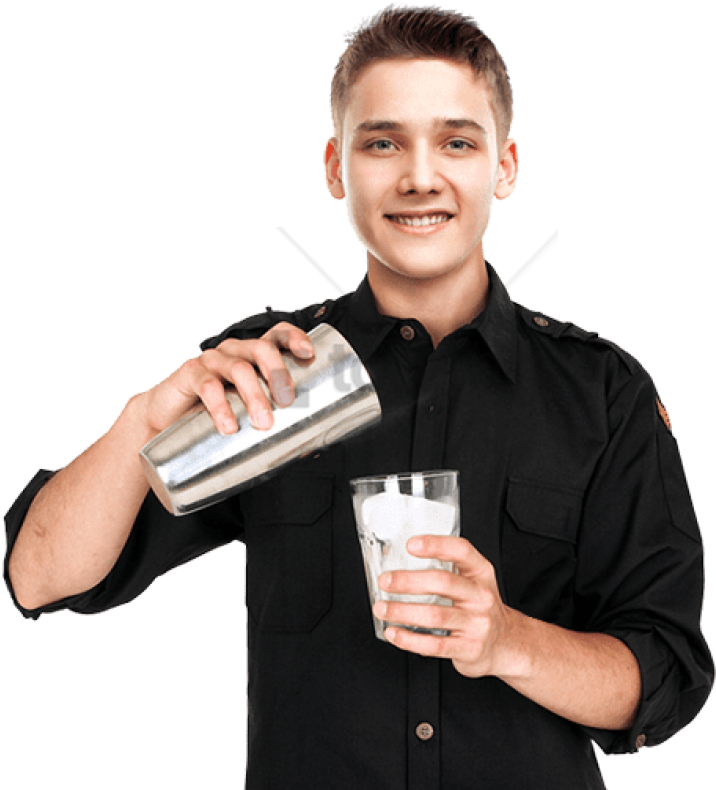
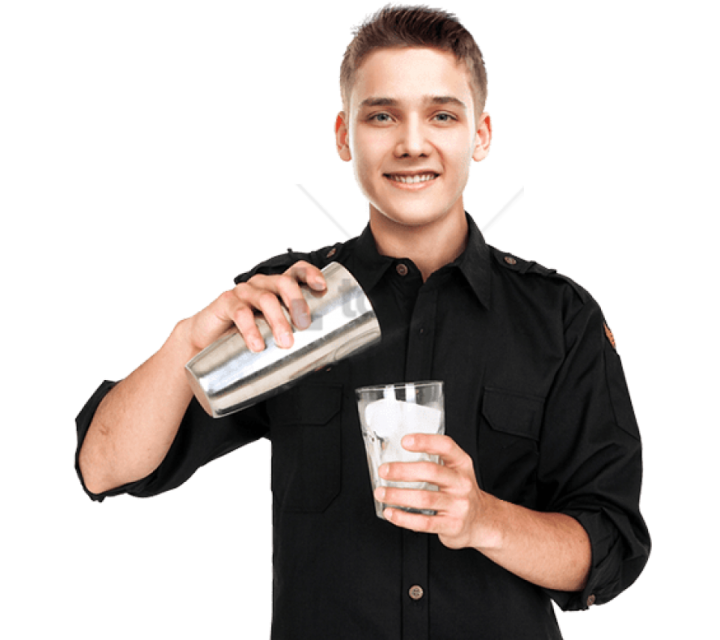
cocktail detail style start

diff --git a/src/pages/cocktailDetail/CocktailDetail.jsx b/src/pages/cocktailDetail/CocktailDetail.jsx
@@ -1,10 +1,18 @@
-import React, {useEffect, useState} from 'react'
+import React, {useEffect, useState, useContext} from 'react'
 import { useLocation } from 'react-router-dom'
+import charlotte from "../../assests/charlotte.png"
+import giancarlo from "../../assests/giancarlo.png"
+import julia from "../../assests/julia.png"
+import { explanation } from "../../explanation/explanation";
+import { GlobalContext } from "../../context/GlobalState";
+import lemonVideo from "../../assests/lemon.m4v"
+import "./cocktailDetail.css"
 
 const CocktailDetail = () => {
   const [data, setData] = useState(null)
   const location = useLocation()
   const id = location.state
+  const{changeBartender, bartender} = useContext(GlobalContext)
   const fetchData = async () => {
       const res = await fetch(
         `https://www.thecocktaildb.com/api/json/v1/1/lookup.php?i=${id}`,
@@ -18,10 +26,58 @@ const CocktailDetail = () => {
   },[])
 
   return (
-    <div>
-        <h1>{data&&data.strDrink}</h1>
-        <img src={data&&data.strDrinkThumb} alt="" />
-    </div>
+    <div className="container center">
+      <video className="backgroundVideo" src={lemonVideo} autoPlay loop muted></video>
+      <div className="videoOverlay"></div>
+      <main className="appContainer center">
+        <h1 className="appTitle">Vodafone Ziggo Bar</h1>
+        
+        <section className="explanationSection">
+            <div className="bartenderImgBig">
+              <img src={bartender==="Charlotte"?charlotte:(bartender==="Giancarlo"?giancarlo:julia)} alt="" />
+            </div>
+            <div className='cocktail'>
+              <h1>{data&&data.strDrink}</h1>
+              <div className='center'>
+                <table>
+                  <thead>
+                    <tr>
+                      <th>Ingredints</th>
+                      <th>Measure</th>
+                    </tr>
+                  </thead>
+                  <tbody>
+                    <tr>
+                      <td>{data&&data.strIngredient1}</td>
+                      <td>{data&&data.strMeasure1}</td>
+                    </tr>
+                    <tr>
+                      <td>{data&&data.strIngredient2}</td>
+                      <td>{data&&data.strMeasure2}</td>
+                    </tr>
+                    <tr>
+                      <td>{data&&data.strIngredient3}</td>
+                      <td>{data&&data.strMeasure3}</td>
+                    </tr>
+                    <tr>
+                      <td>{data&&data.strIngredient4}</td>
+                      <td>{data&&data.strMeasure4}</td>
+                    </tr>
+                  </tbody>
+                </table>
+                <img className='drinkImg' src={data&&data.strDrinkThumb} alt={data&&data.strDrink} />
+              </div>
+              <div>
+                <p>{data&&data.strInstructions}</p>
+              </div>
+              
+            </div>
+        </section>
+        
+        
+      </main>    
+    </div> 
+
   )
 }
 

diff --git a/src/pages/home/home.css b/src/pages/home/home.css
@@ -75,9 +75,7 @@ body {
     margin:0.5rem 0;
 }
 .bartenderImg{
-    width:200px;
-    height: 200px;
-    overflow: hidden;
+    width:270px;
 }
 .bartenderImg img{
     width: 100%;
@@ -98,7 +96,6 @@ body {
 }
 .bartenderImgBig {
     margin: 0 1rem;
-    width: 25%;
 }
 
 .bartenderImgBig img {

diff --git a/src/pages/cocktailDetail/cocktailDetail.css b/src/pages/cocktailDetail/cocktailDetail.css
@@ -1,0 +1,12 @@
+.drinkImg{
+    max-width:200px;
+    
+}
+
+h1{
+    text-align: center;
+}
+
+.cocktail div,table,img{
+    margin: 1rem;
+}
